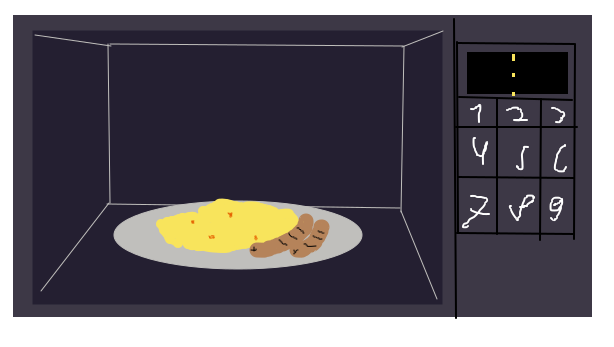
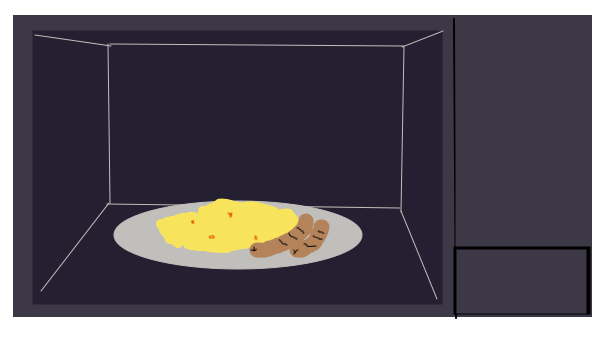
Add files via upload

Changed region(s): [[0.7427, 0.1153, 0.9902, 0.9222], [0.7117, 0.7205, 0.7427, 0.8934]]

diff --git a/laba11/main.py b/laba11/main.py
@@ -1,12 +1,19 @@
 
 import tkinter
+import time
 from tkinter import *
+from tkinter import ttk
 
 
 
-open_flag = False
-work_flag = False
-rozet_flag =True
+open_flag = False #отвечает за отрытое положение микроволновки
+work_flag = False #отвечает за рабочее положение микроволновки
+rozet_flag =True  #вкл/выкл вылки из разетки
+time_minute = 0   #кол-во минут на таймере
+time_second = 0   #кол-во секунд на таймере
+minut_string = "" #строки вывода на таймер
+second_string = ""
+
 
 class Window(): # окно на котом все рисуется
     def __init__(self):
@@ -28,13 +35,13 @@ class Window(): # окно на котом все рисуется
         #
         # Close/Open
         #
-        if 30 <= event.x <=450 and 10 <= event.y <= 450 and open_flag== False:
+        if 450 <= event.x <=600 and 250 <= event.y <= 300 and open_flag== False:
 
             img = PhotoImage(file='microwave_opened.png')
             canvas.create_image(-1, -1, anchor='nw', image=img)
 
             open_flag = True
-        elif 10 <= event.x <= 450 and 10 <= event.y <= 350 and open_flag== True:
+        elif 450 <= event.x <= 600 and 250 <= event.y <= 300 and open_flag== True:
 
             img = PhotoImage(file='microwave_close.png')
             canvas.create_image(-1, -1, anchor='nw', image=img)
@@ -83,6 +90,106 @@ class Window(): # окно на котом все рисуется
 
             rozet_flag = True
             work_flag = False
+    #---------------------------
+    #ЛОГИКА ТАЙМЕРА ПО МИНУТАМ
+    #---------------------------
+    def logic_timer_minute(self,time):
+        global time_minute,minut_string
+
+        if 0 < time < 10:
+            minut_string = f"0{time_minute}"
+        elif 0 < time < 100:
+            minut_string = f"{time_minute}"
+        elif time < 0: # чтобы не выдавало -1 на таймере
+
+            minut_string = f"00"
+
+        else:# когда кол-во минут большее 100
+            time_minute = 0
+            minut_string = f"0{time_minute}"
+
+        #отображение минут
+        minute = Label(win.win, text=minut_string, fg="orange", bg='black', relief=FLAT, bd='5', font=("Arial", 20))
+        minute.place(x=480, y=40)
+        self.win.update()
+
+    def timer_minute(self): # функция прибавления времени
+        global time_minute,minut_string
+
+        time_minute += 1
+
+        self.logic_timer_minute(time_minute)
+
+    # ---------------------------
+    # ЛОГИКА ТАЙМЕРА ПО СЕКУНДАМ
+    # ---------------------------
+    def logic_timer_second(self,time):#
+        global time_second, second_string
+
+
+        if 10 <= time < 60:
+            second_string = f"{time_second}"
+
+        elif time < 0: # чтобы не выдавало -1 на таймере
+            time_second = 0
+            second_string = f"0{time_second}"
+
+        elif time < 10:
+            second_string = f"0{time_second}"
+
+        else : #чтобы секунды больше 60 переводить в минуту
+            win.timer_minute()
+            time_second = 0
+            second_string = f"0{time_second}"
+
+
+
+        second = Label(win.win, text=f': {second_string}', fg="orange", bg='black', relief=FLAT, bd='5',font=("Arial", 20))
+        second.place(x=520, y=40)
+        self.win.update()
+
+
+
+    def timer_second(self):
+        global time_second, second_string
+
+        time_second += 10
+
+        self.logic_timer_second(time_second)
+
+    #если секунды < 0 отнимаем 1 минуту и смотрим, если < 0 минут осталось то выходим иначе отсчитываем секунды дальше
+    def countdown(self):
+        global time_second,time_minute
+
+        while (time_minute > 0 or time_second > 0):
+            time_second -= 1
+            self.win.after(1000,self.logic_timer_second(time_second))
+            if time_second <= 0:
+                time_minute -= 1
+                self.win.after(1000, self.logic_timer_minute(time_minute))
+                if time_minute >= 0:
+                    time_second = 59
+                    self.win.after(1000, self.logic_timer_second(time_second))
+
+                else:
+                    time_second = 0
+                    self.win.after(1000, self.logic_timer_second(time_second))
+                    
+
+    #кнопка сброс
+    def reset(self):
+        global time_second, time_minute
+
+        time_second = 0
+        time_minute = 0
+
+        second = Label(win.win, text=': 00', fg="orange", bg='black', relief=FLAT, bd='5',font=("Arial", 20))
+        second.place(x=520, y=40)
+
+        minute = Label(win.win, text='00', fg="orange", bg='black', relief=FLAT, bd='5', font=("Arial", 20))
+        minute.place(x=480, y=40)
+
+
 
 
 win = Window()
@@ -95,7 +202,26 @@ canvas.create_image(-1, -1, anchor='nw', image=img)
 
 img_rozet = PhotoImage(file='rozet_off.png') # отрисовка розетки
 canvas.create_image(600, 10, anchor='nw', image=img_rozet)
+
+#отрисовка дисплея таймера
+minute = Label(win.win, text='00',fg = "orange",bg = 'black',relief=FLAT,bd='5',font=("Arial", 20))
+second = Label(win.win, text=': 00',fg = "orange",bg = 'black',relief=FLAT,bd='5',font=("Arial", 20))
+
+#кнопки добавления минут,секунд сброс и пуск
+add_minute = ttk.Button(win.win,text = "+1 мин",cursor="top_left_corner",width=6,command=win.timer_minute)
+add_second = ttk.Button(win.win,text = "+10 сек",cursor="top_left_corner",width=6 ,command=win.timer_second)
+reset_time = ttk.Button(win.win,text = "сброс",cursor = "top_left_corner",width = 6,command=win.reset)
+start = ttk.Button(win.win,text = "пуск",cursor="top_left_corner",width=6 ,command=win.countdown)
+
+minute.place(x = 480 , y = 40)
+second.place(x = 520 , y = 40 )
+reset_time.place(x = 530 , y = 150  )
+start.place (x = 460, y = 150)
+add_minute.place(x = 460,y=200 )
+add_second.place(x = 530,y=200 )
 canvas.place(x=0,y=0)
+
+
 
 win.win.bind('<ButtonPress>', win.printPressedButton )# действия по нажатию на кнопку мыши.
 
